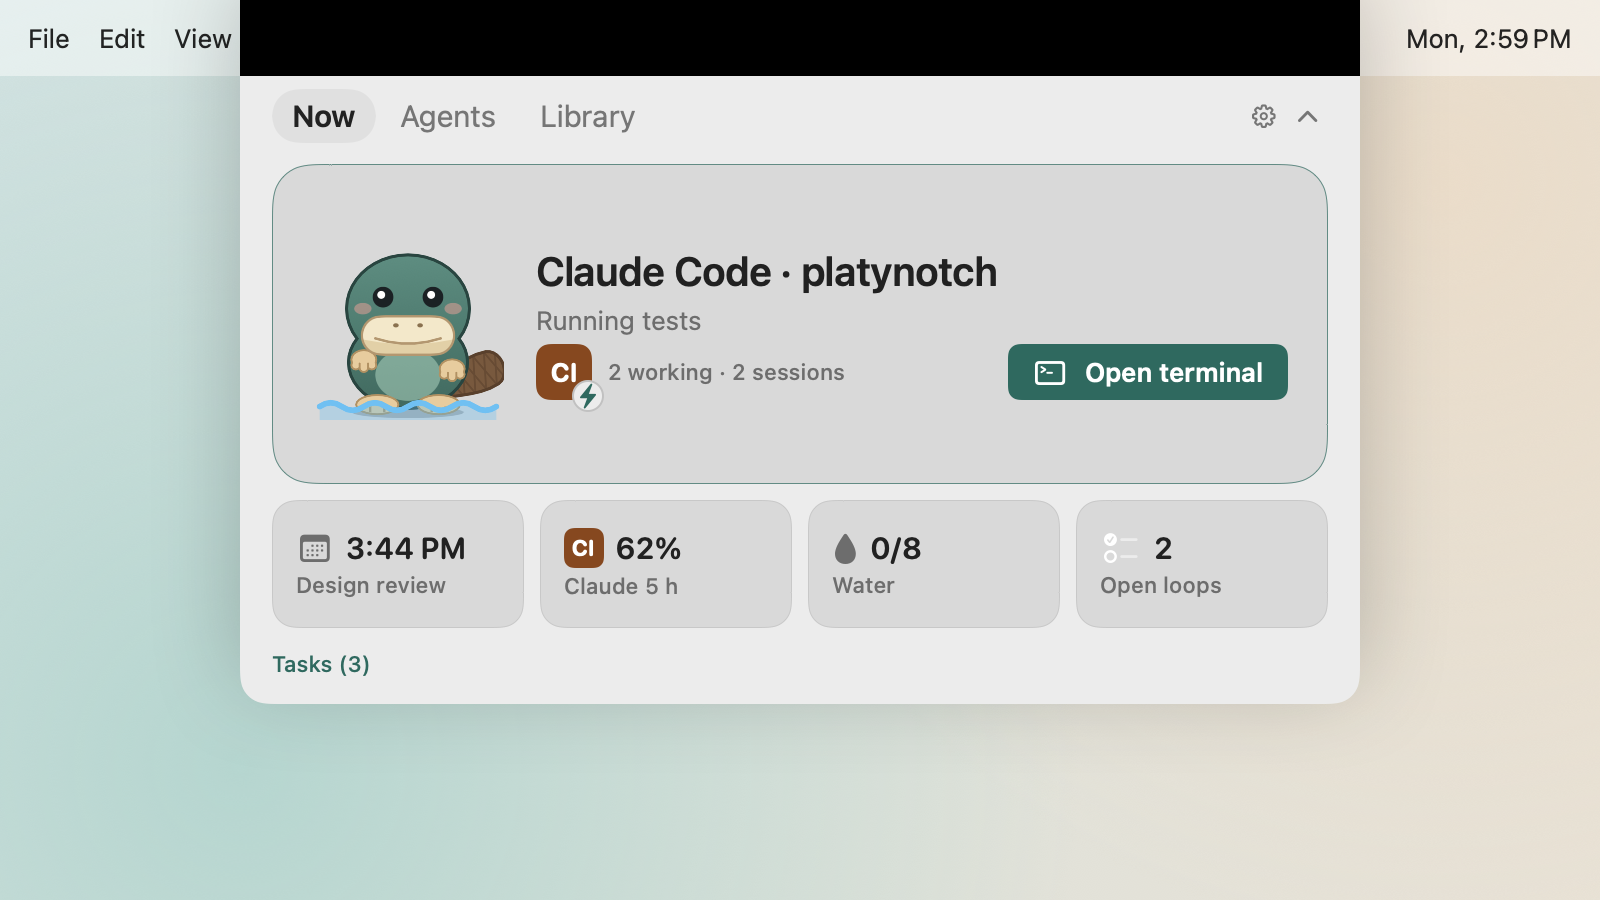
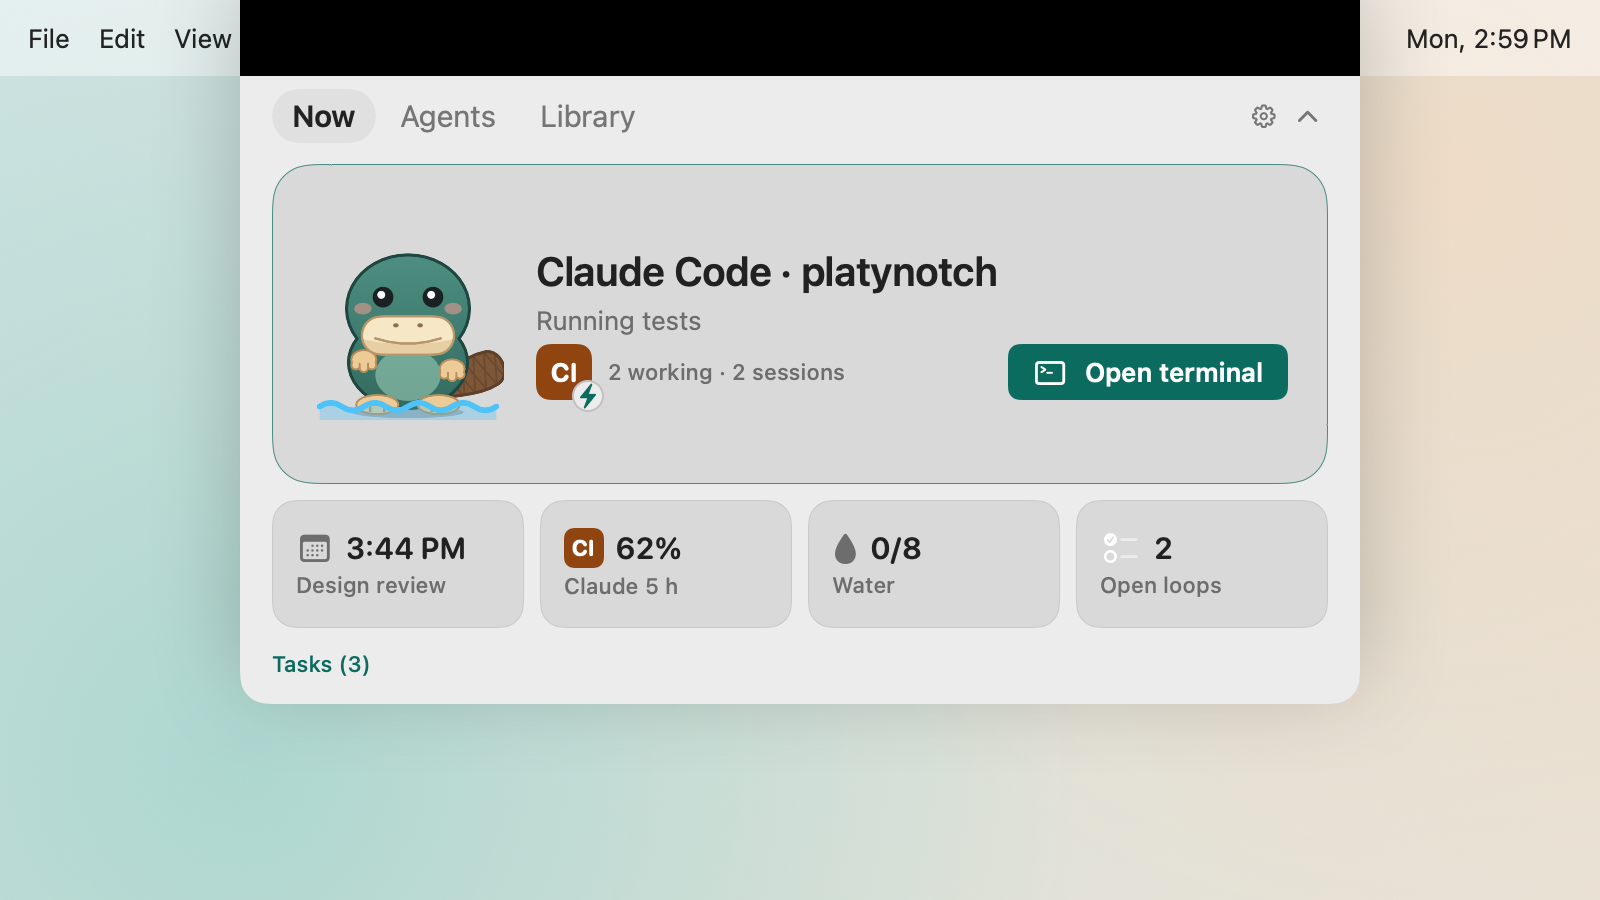
fix(mac): showcase renders always at 2x, so the images are 1600 x 900 on any Mac (CI is 1x)

Changed region(s): [[0.625, 0.3733, 0.8125, 0.4667], [0.1875, 0.4356, 0.3125, 0.4667], [0.1875, 0.7156, 0.2188, 0.7467]]

diff --git a/apps/mac/Sources/PlatyNotchUI/Smoke/ShowcaseRenders.swift b/apps/mac/Sources/PlatyNotchUI/Smoke/ShowcaseRenders.swift
@@ -173,7 +173,14 @@ enum ShowcaseRenders {
         RunLoop.main.run(until: Date().addingTimeInterval(0.05))
         host.layoutSubtreeIfNeeded()
         host.display()
-        guard let rep = host.bitmapImageRepForCachingDisplay(in: host.bounds) else { return nil }
+        // Always 2x, so the committed images are 1600 x 900 on any Mac (CI renders at 1x).
+        let size = host.bounds.size
+        guard let rep = NSBitmapImageRep(bitmapDataPlanes: nil, pixelsWide: Int(size.width * 2),
+                                         pixelsHigh: Int(size.height * 2), bitsPerSample: 8,
+                                         samplesPerPixel: 4, hasAlpha: true, isPlanar: false,
+                                         colorSpaceName: .deviceRGB, bytesPerRow: 0, bitsPerPixel: 0)
+        else { return nil }
+        rep.size = size
         host.cacheDisplay(in: host.bounds, to: rep)
         return rep.representation(using: .png, properties: [:])
     }
